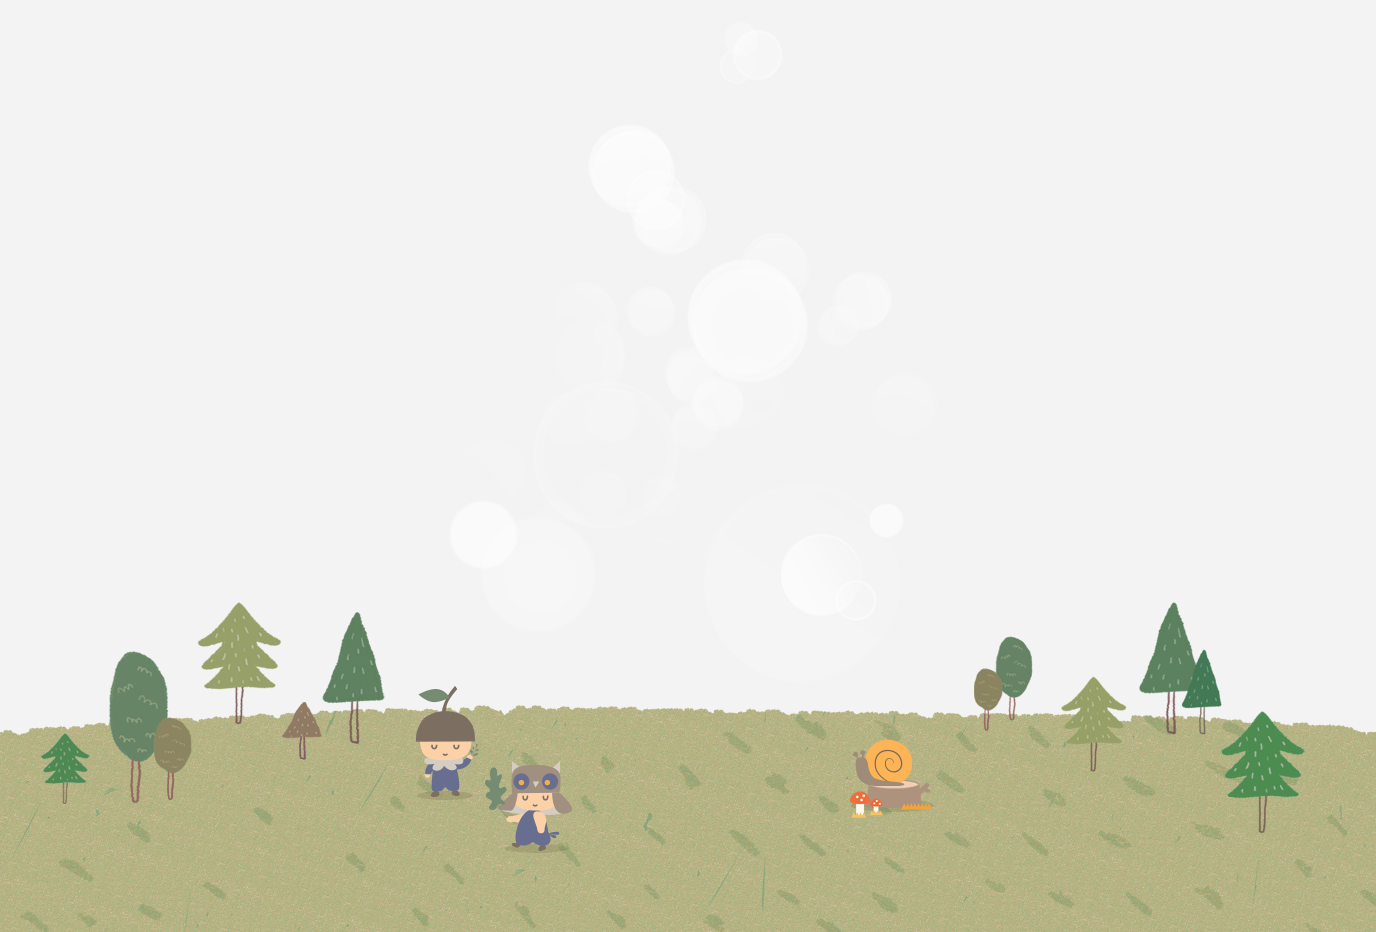
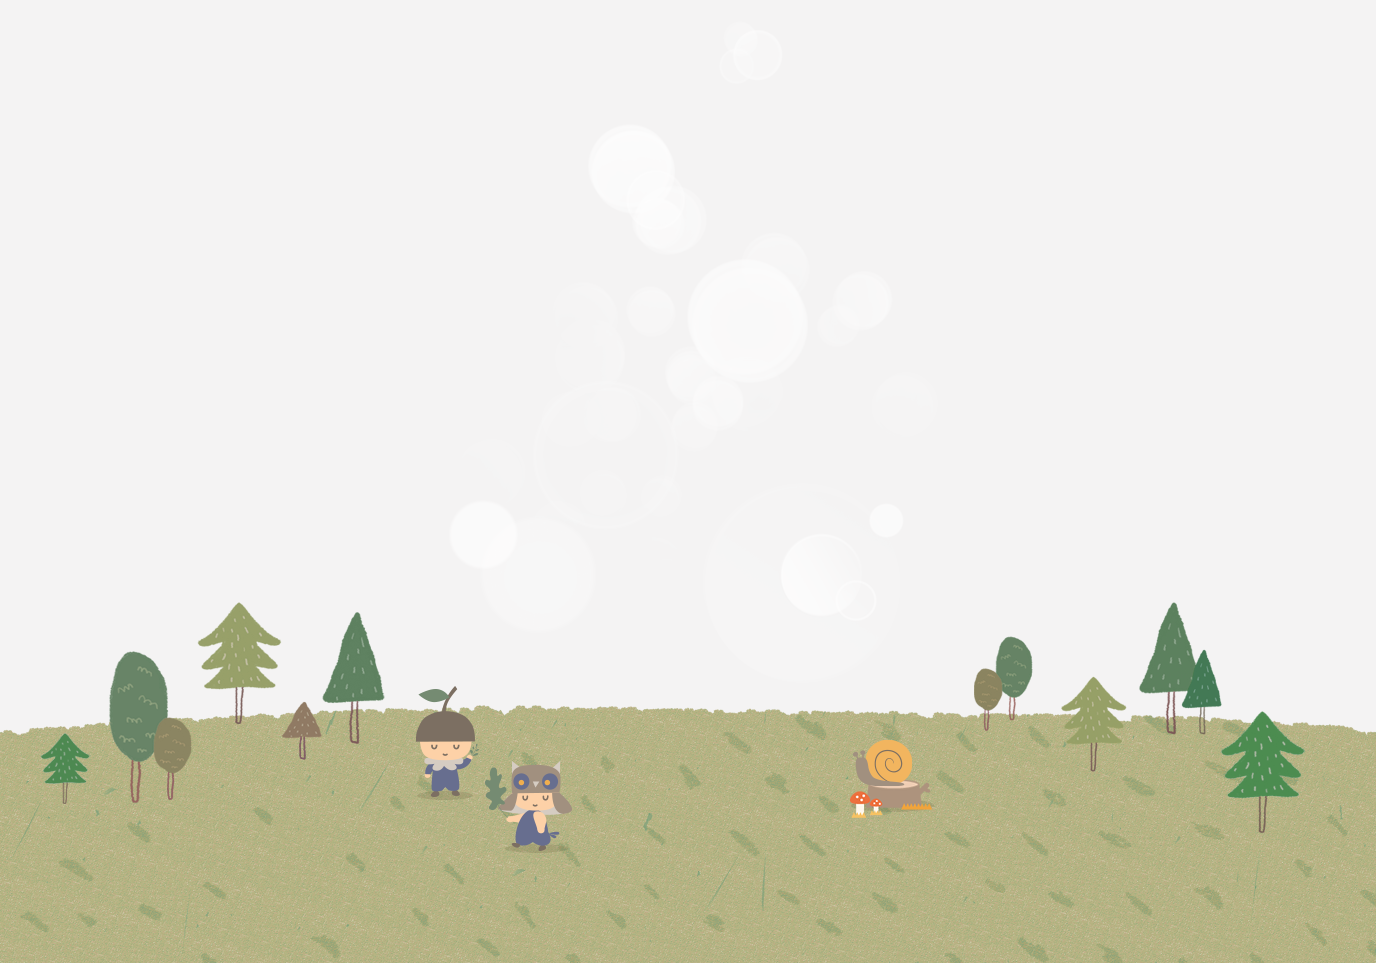
베스바디 바디케어

diff --git a/_ui/responsive/theme-blue/css/akl-product.css b/_ui/responsive/theme-blue/css/akl-product.css
@@ -156,7 +156,7 @@ iframe {border:0;}
 
 .visual-area.type02.nurish-bodywash{background: #ffffff url(../images/akl_product/bath-body/bg_nurish_bodywash.png) no-repeat top center;height:1060px;} /* 너리쉬 바디워시*/
 .visual-area.type02.nurish-bodywash2{background: #ffffff url(../images/akl_product/bath-body/bg_nurish_bodywash_02.png) no-repeat top center;height:915px;} /* 너리쉬 바디워시 배경 짧은타입*/
-.visual-area.type02.verganic{background: #ffffff url(../images/akl_product/bath-body/bg_verganic_bodywash.png) no-repeat top center;height:932px;} /* 베르가닉 오가닉 */
+.visual-area.type02.verganic{background: #ffffff url(../images/akl_product/bath-body/bg_verganic_bodywash.png) no-repeat top center;height:963px;} /* 베르가닉 오가닉 */
 .visual-area.type02.verganic-botanical{background: #ffffff url(../images/akl_product/bath-body/bg_verganic_jojoba.png) no-repeat top center;height:924px;} /* 베르가닉 호호바 */
 .visual-area.type02.child-tooth{background: #ffffff url(../images/akl_product/bath-body/bg_child_tooth.png) no-repeat top center;height:1012px;} /* 오랄케어 */
 .visual-area.type04.bath-gift-s{background: #ffffff url(../images/akl_product/bath-body/bg_gift_set_s.png) no-repeat top center;height:851px;} /* 기프트세트 mini */
